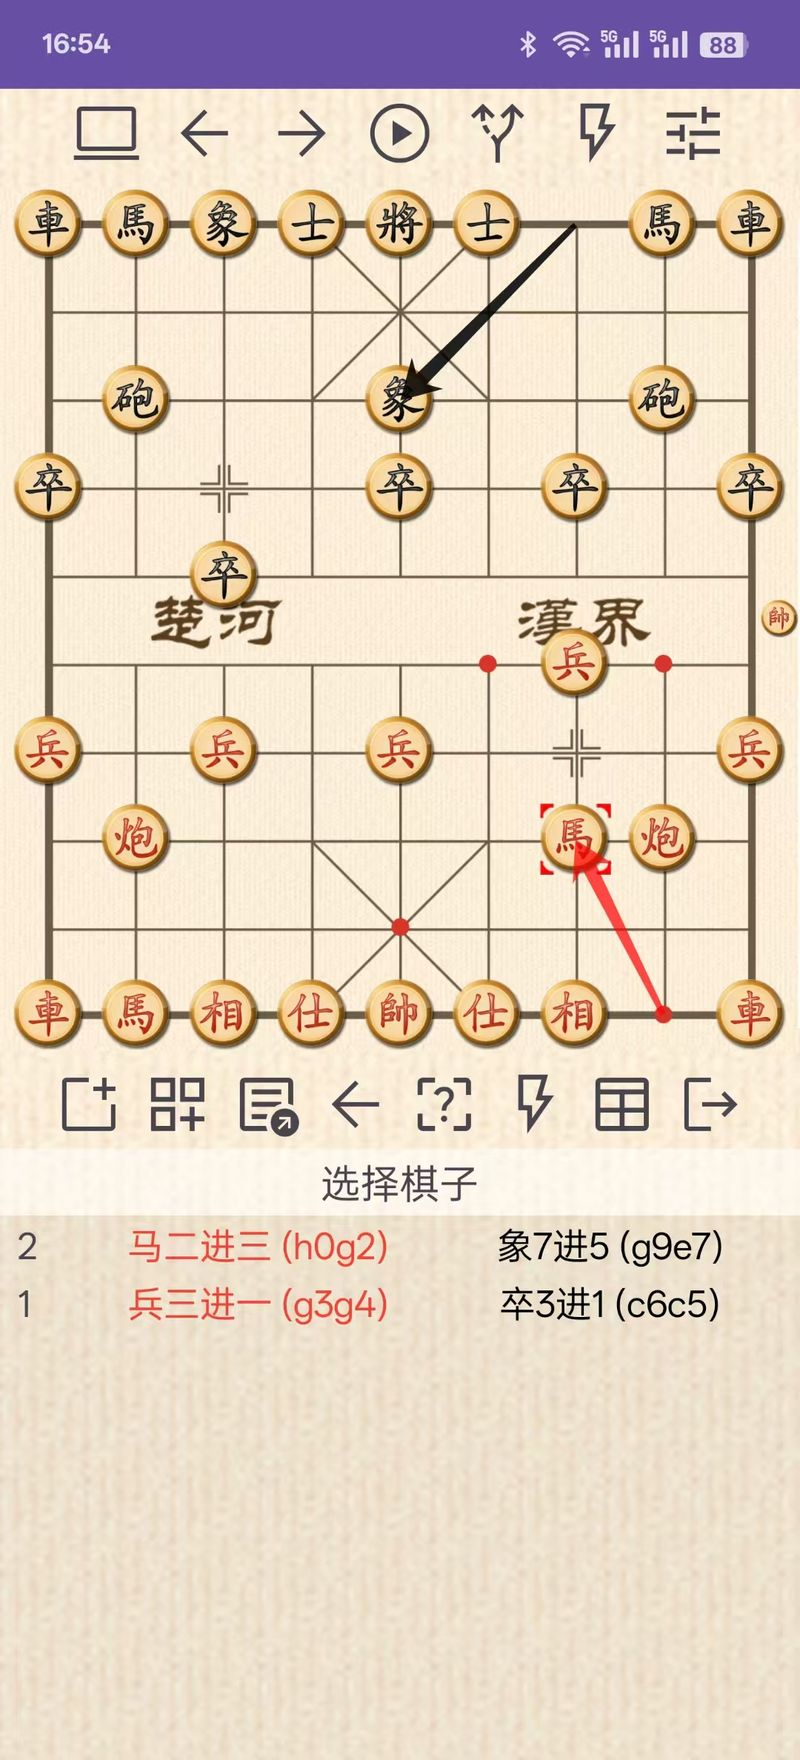
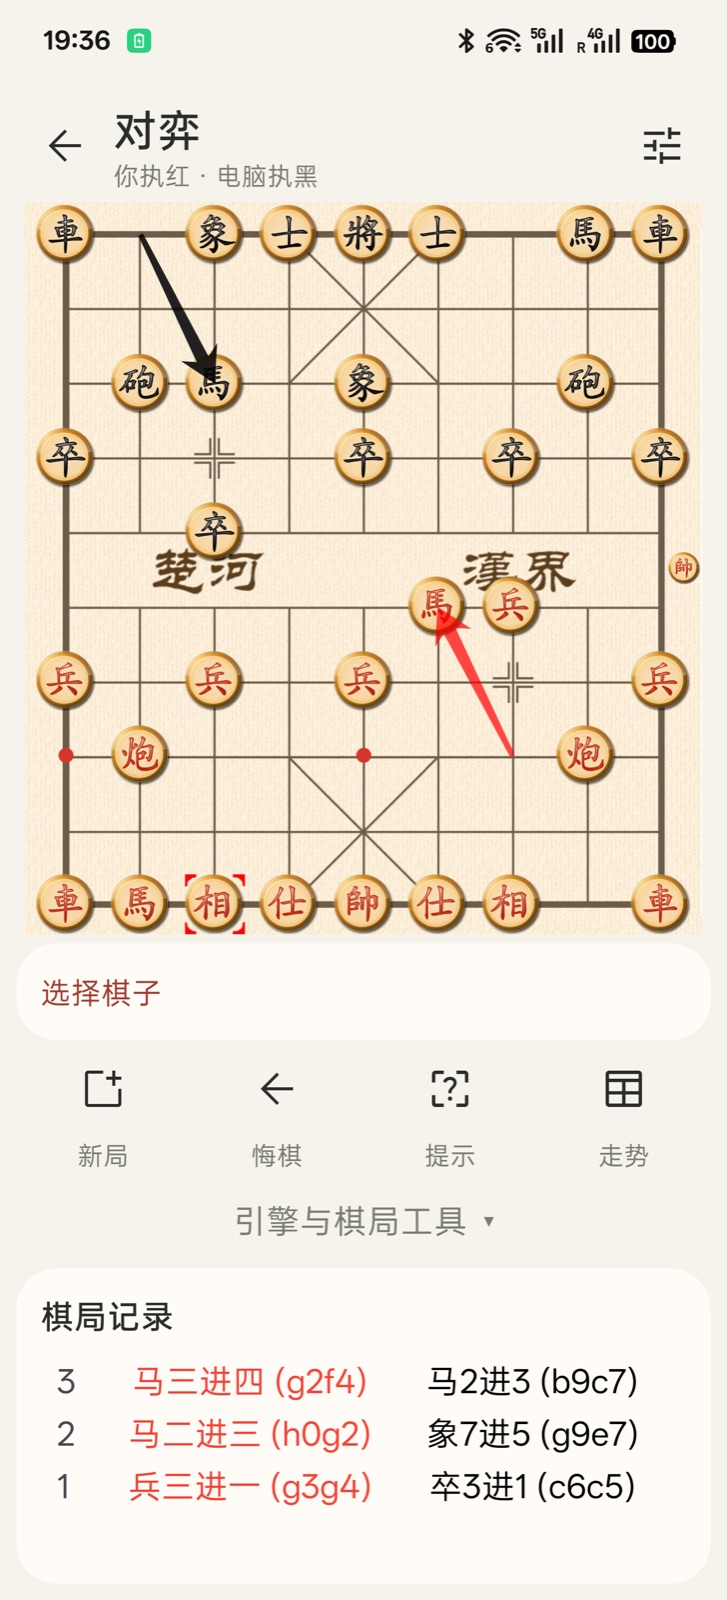
docs: refresh screenshots for the new UI
- Re-capture all screenshots from the released build on a real device
  (PHY110 / Android 16): play screen with move history, legal-move dots,
  MultiPV hint arrows, evaluation trend, opening-book tools, settings
  dialog and the manual (XQF) reader
- Replace the annotated toolbar image and settings image with current
  captures; drop stale interface.png/settings.png in favor of .jpg
- Fix help.html link pointing to nonexistent images/multipv.png
- Update toolbar descriptions and default Hash note to match the
  current UI (dynamic hash instead of fixed 256M)

diff --git a/docs/help.html b/docs/help.html
@@ -20,18 +20,18 @@
 <h3>1. 工具栏介绍</h3>
 
 <div class="imgbox">
-    <a href="images/interface.png"><img class="center-fit" src='images/interface.png' style="max-width: 300px"></a>
+    <a href="images/interface.jpg"><img class="center-fit" src='images/interface.jpg' style="max-width: 300px"></a>
 </div>
 
 
 <h4>说明：</h4>
 
 <ui>
-  <li>强制电脑变着：如果电脑的出着不符合预期的话，可以要求电脑变着，电脑将悔棋并提供3个候选着法</li>
-  <li>寻求帮助：当己方出着时，可以寻求帮助，引擎会提供3个候选着法</li>
-  <li>闪电出着：当电脑在搜索着法或者己方在寻求帮助时，点击将结束搜索，立刻返回结果</li>
-  <li>从FEN开局：直接输入FEN字符串开局</li>
-  <li>状态提示：红帅表示该红方出着；黑将表示该黑方出着；神经元表示思考中...</li>
+  <li>工具行：新局、悔棋、提示、走势——点击「引擎与棋局工具」可展开更多：执棋模式、退一步、电脑走棋、自动走棋、候选着法、立即落子、导入棋局、复制棋局等</li>
+  <li>提示：当己方出着时，可以寻求帮助，引擎会提供3个候选着法</li>
+  <li>停止提示：当电脑在搜索着法或者己方在寻求帮助时，点击将结束搜索，立刻返回结果</li>
+  <li>导入棋局：直接输入FEN字符串开局</li>
+  <li>状态提示：红帅表示该红方出着；黑将表示该黑方出着；思考中...</li>
 
 </ui>
 
@@ -58,7 +58,7 @@
 <h3>3. 设置界面</h3>
 
 <div class="imgbox">
-    <a href="images/multipv.png"><img class="center-fit" src='images/settings.png' style="max-width: 300px"></a>
+    <a href="images/settings.jpg"><img class="center-fit" src='images/settings.jpg' style="max-width: 300px"></a>
 </div>
 
 <h4>3.1 支持红方先行或黑方先行</h4>
@@ -78,11 +78,11 @@
   <li>这个功能的目的，是避免电脑每次都走一样的着法，跟电脑对弈会无聊</li>
 </ui>
 
-<h4>3.4 Hash大小</h4>
+<h4>3.4 引擎缓存 (Hash)</h4>
 
 <ui>
-  <li>缺省为256M</li>
-  <li>越大越好，但是大了程序可能会崩溃</li>
+  <li>缺省根据手机内存自动设置（约为应用内存预算的三分之一，32–128MB），也可在设置中手动调整</li>
+  <li>越大越好，但是大了程序可能会被系统终止</li>
 </ui>
 
 <h4>3.5 引擎搜索设置</h4>

diff --git a/docs/index.html b/docs/index.html
@@ -38,7 +38,8 @@
   <li>己方出着时可寻求引擎帮助，可视化推荐着法，一键选择着法(图3)</li>
   <li>强制电脑变着，可视化显示变着，一键选择变着</li>
   <li>显示局势评估曲线图(图4)</li>
-  <li>支持打谱模式，内置了XQF格式的一些棋谱(图5、图6、图7)</li>
+  <li>支持打谱模式，内置了XQF格式的一些棋谱(图5、图6)</li>
+  <li>丰富的对弈与棋局工具(图7)</li>
   <li>皮卡鱼可配置(图8)</li>
 </ui>
 
